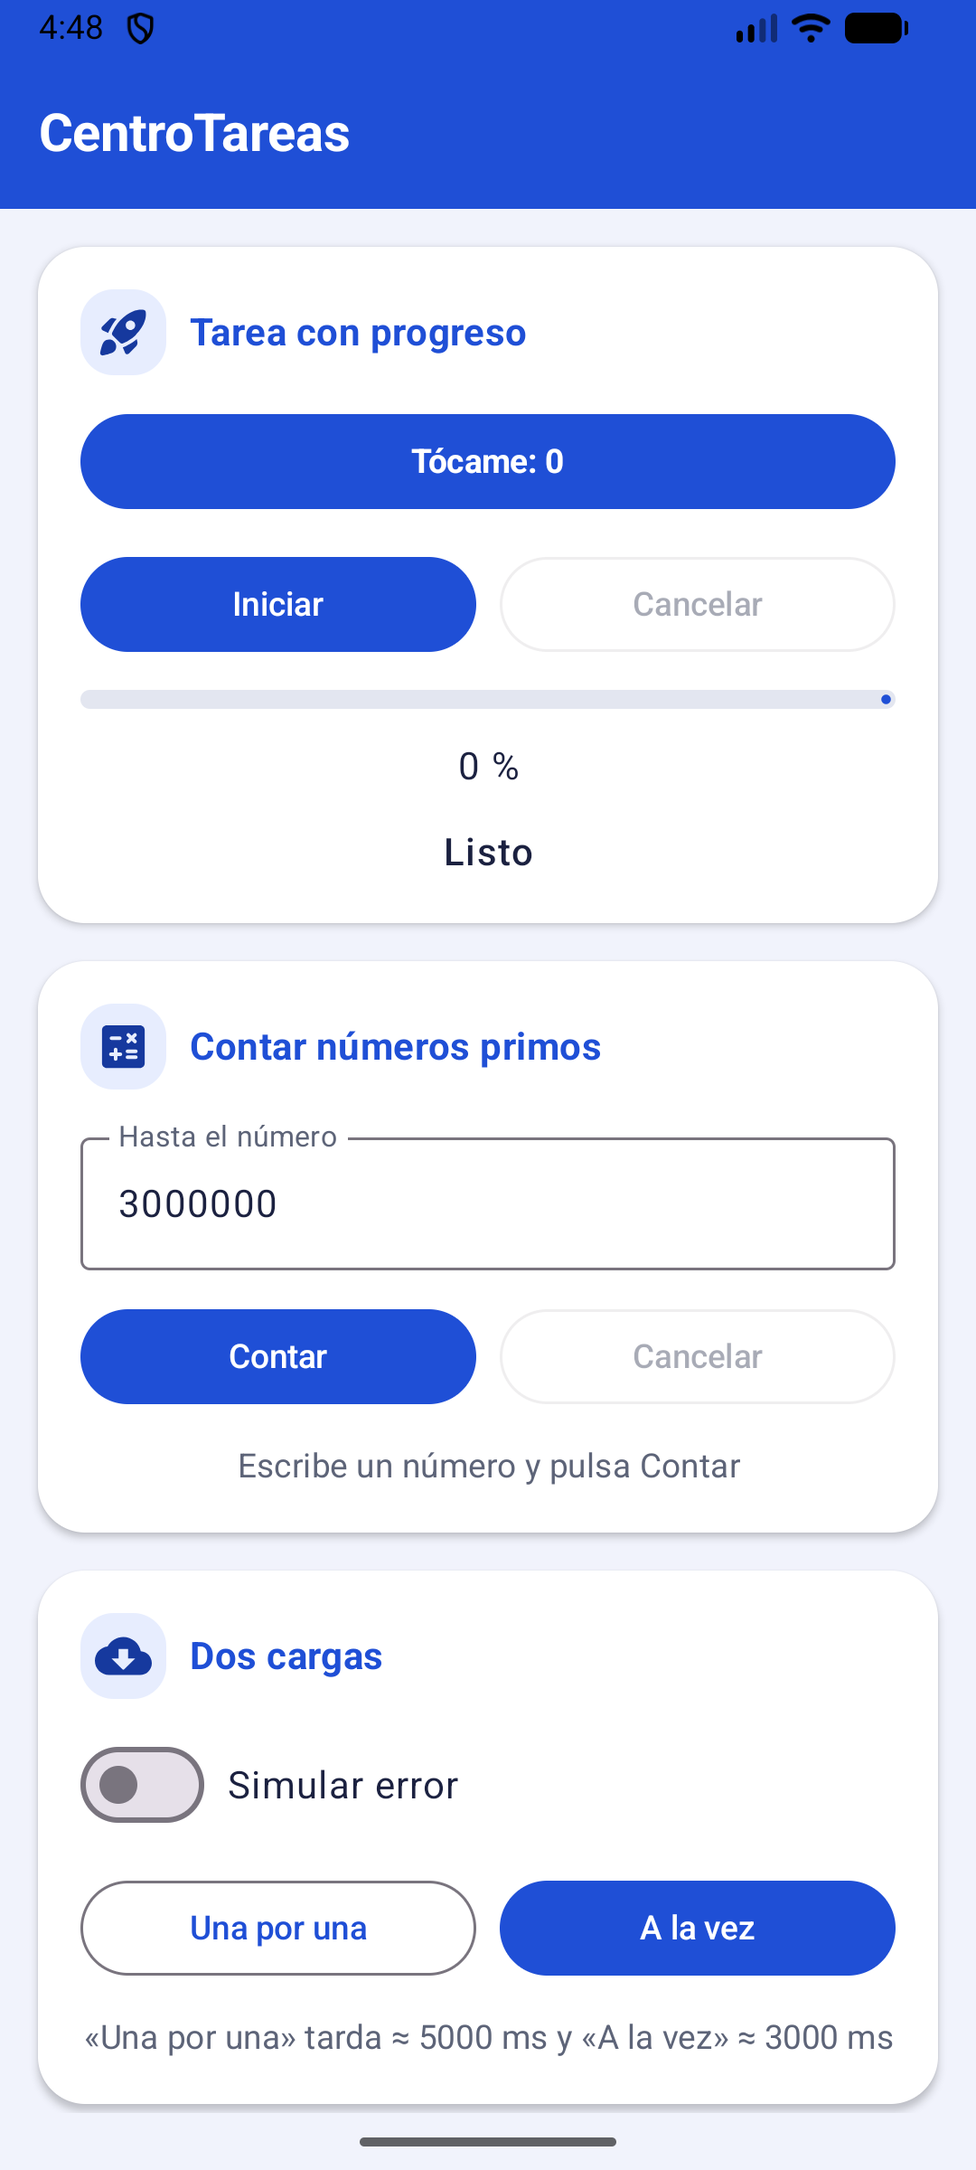
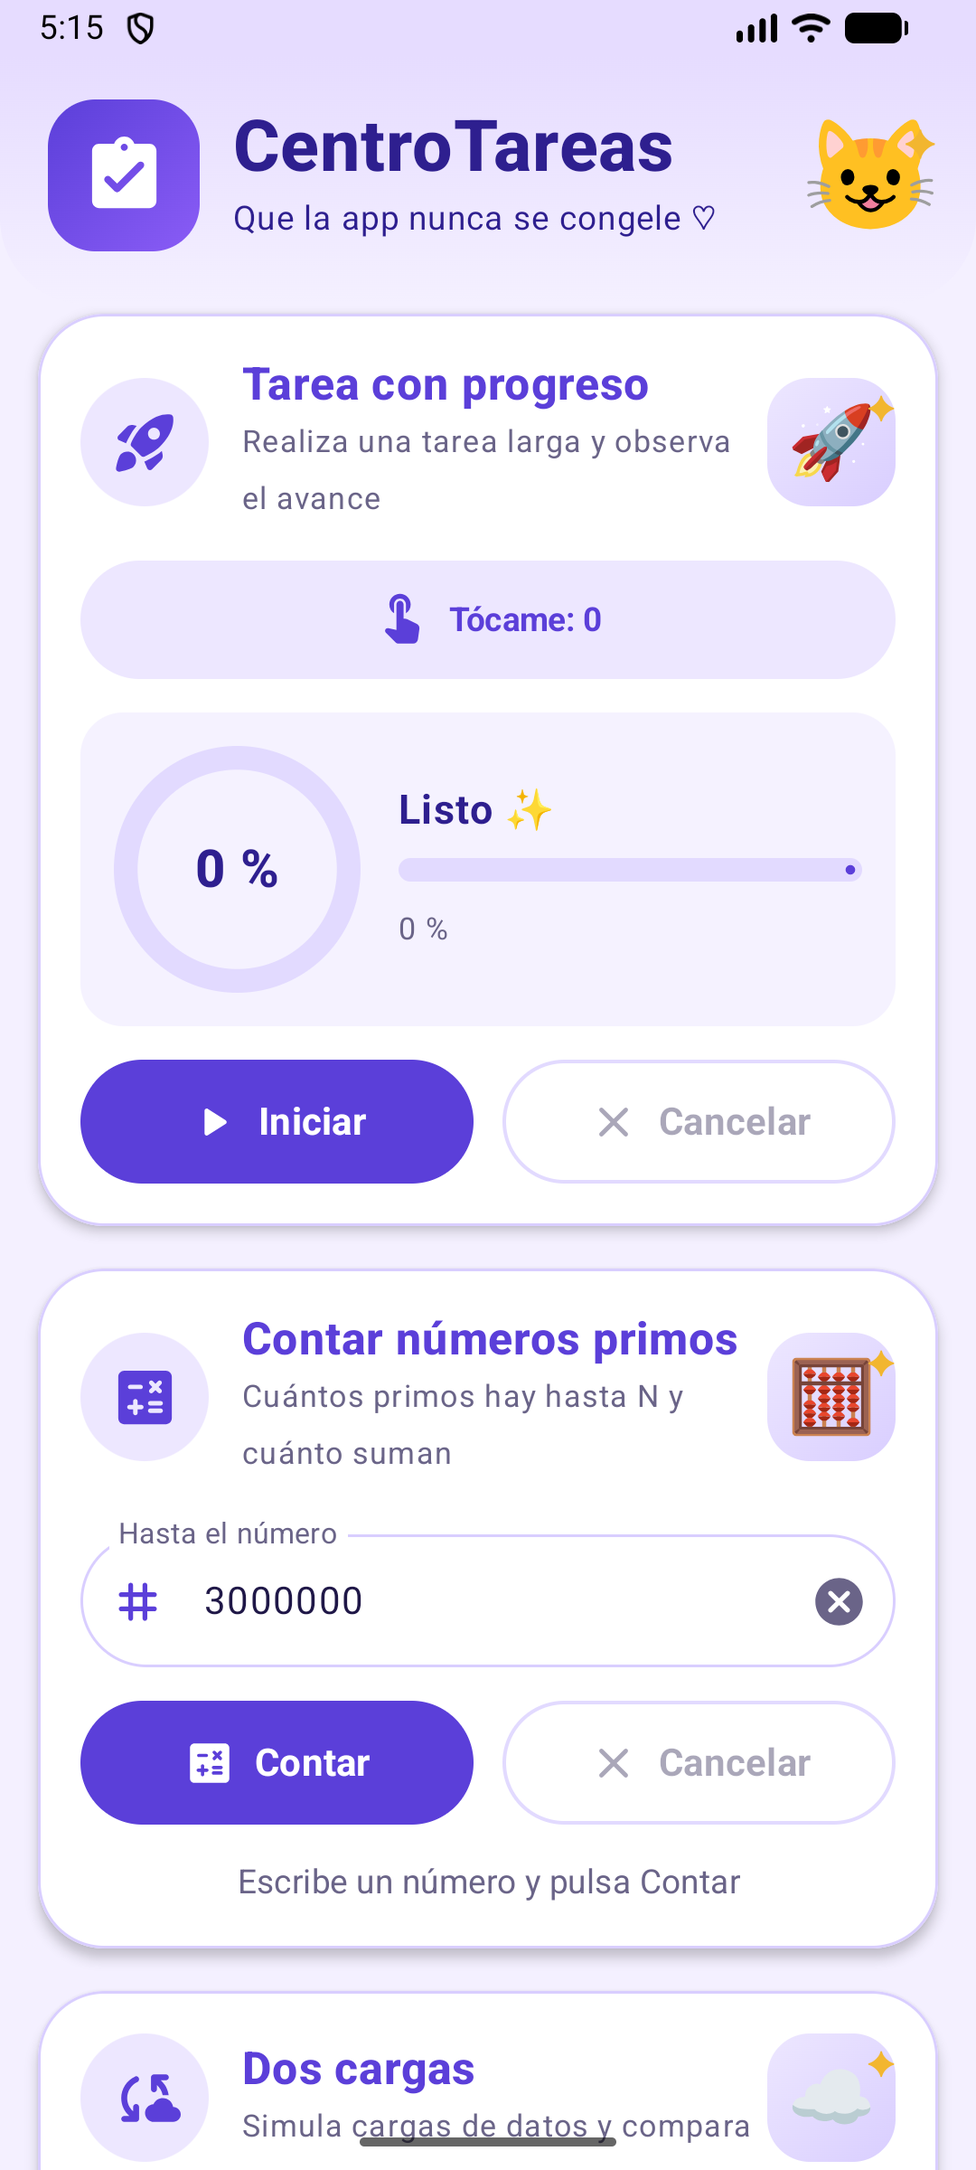
docs: documenta la suma de primos y el diseño morado

diff --git a/Semana 14/MAPA_DEL_LAB.html b/Semana 14/MAPA_DEL_LAB.html
@@ -136,7 +136,7 @@
       <span class="chip">✔ MVVM + Repository</span>
       <span class="chip">✔ Jetpack Compose + Material 3</span>
       <span class="chip">✔ 9 commits Fase 1</span>
-      <span class="chip">✔ 4 mejoras Fase 2</span>
+      <span class="chip">✔ 5 mejoras Fase 2</span>
     </div>
   </div>
 </header>
@@ -171,7 +171,7 @@
         <h3>🖼 View: Jetpack Compose</h3>
         <p>Solo muestra el estado y avisa los eventos (botones). No lanza corrutinas ni usa <code>Thread</code>.</p>
         <div style="margin-top:8px">
-          <span class="ruta">ui/PantallaTareas.kt : <b>77</b></span>
+          <span class="ruta">ui/PantallaTareas.kt : <b>113</b></span>
           <span class="ruta">ui/theme/Theme.kt</span>
         </div>
       </div>
@@ -189,18 +189,18 @@
         <h3>💾 Repository: interface + implementación local</h3>
         <p>Hace el trabajo pesado (cargas simuladas con <code>delay</code>, conteo de primos). No sabe nada de la UI.</p>
         <div style="margin-top:8px">
-          <span class="ruta">data/TareasRepository.kt : <b>5</b></span>
-          <span class="ruta">data/TareasRepositoryLocal.kt : <b>13</b></span>
+          <span class="ruta">data/TareasRepository.kt : <b>6</b></span>
+          <span class="ruta">data/TareasRepositoryLocal.kt : <b>14</b></span>
         </div>
       </div>
     </div>
     <div class="rejilla" style="margin-top:14px">
       <div class="tarjeta">
         <h3>Estados de pantalla</h3>
-        <p><code>sealed interface</code> PrimosUi y CargaUi; data class ComparacionTiempos (mejora 4).</p>
+        <p><code>sealed interface</code> PrimosUi y CargaUi; data class ResultadoPrimos (mejora 5) y ComparacionTiempos (mejora 4).</p>
         <span class="ruta">model/Estados.kt : <b>3</b></span>
-        <span class="ruta">model/Estados.kt : <b>10</b></span>
-        <span class="ruta">model/Estados.kt : <b>23</b></span>
+        <span class="ruta">model/Estados.kt : <b>11</b></span>
+        <span class="ruta">model/Estados.kt : <b>24</b> · <b>27</b></span>
       </div>
       <div class="tarjeta">
         <h3>Inyección del Repository</h3>
@@ -224,7 +224,7 @@
           <tr><td>45 · 46</td><td><code>core-ktx</code> · <code>activity-compose</code></td><td>Base de Android y <code>setContent { }</code> en MainActivity.</td></tr>
           <tr><td>51</td><td><code>compose-bom:2024.12.01</code></td><td>Fija versiones compatibles de todas las librerías de Compose.</td></tr>
           <tr><td>52 · 54</td><td><code>compose.ui</code> · <code>material3</code></td><td>Interfaz sin XML: Card, Button, LinearProgressIndicator, Switch…</td></tr>
-          <tr><td>56</td><td><code>material-icons-extended</code></td><td>Íconos de cohete, calculadora y nube junto al título de cada tarjeta.</td></tr>
+          <tr><td>56</td><td><code>material-icons-extended</code></td><td>Íconos redondeados: cohete, calculadora, nube, play, rayo, capas, reloj…</td></tr>
           <tr><td>34</td><td><code>buildFeatures { compose = true }</code></td><td>Activa Compose en el módulo.</td></tr>
         </tbody>
       </table>
@@ -244,37 +244,37 @@
         <h3>🚀 viewModelScope.launch</h3>
         <p>Lanza corrutinas atadas al ViewModel: se cancelan solas si el ViewModel se destruye y sobreviven a la rotación.</p>
         <span class="ruta">TareasViewModel.kt : <b>40</b></span>
-        <span class="ruta">: <b>76</b></span><span class="ruta">: <b>102</b></span><span class="ruta">: <b>123</b></span>
+        <span class="ruta">: <b>76</b></span><span class="ruta">: <b>103</b></span><span class="ruta">: <b>124</b></span>
       </div>
       <div class="tarjeta">
         <h3>🔀 withContext(Dispatchers.Default)</h3>
         <p>Cambia de hilo para el trabajo pesado y vuelve a <code>main</code> al terminar.</p>
-        <span class="ruta">TareasRepositoryLocal.kt : <b>37</b></span> (primos)
+        <span class="ruta">TareasRepositoryLocal.kt : <b>42</b></span> (primos)
         <span class="ruta"><span class="etq main">main</span> TareasViewModel.kt : <b>45</b></span> (tarea larga, Pasos 2 y 3)
       </div>
       <div class="tarjeta">
         <h3>🌊 Flow + flowOn (mejora 1)</h3>
         <p>La tarea emite su progreso con <code>emit()</code> desde <code>Dispatchers.Default</code>; el ViewModel hace <code>collect</code> en <code>main</code>.</p>
-        <span class="ruta">TareasRepositoryLocal.kt : <b>27–33</b></span>
+        <span class="ruta">TareasRepositoryLocal.kt : <b>28–34</b></span>
         <span class="ruta">TareasViewModel.kt : <b>46</b></span>
       </div>
       <div class="tarjeta">
         <h3>🧵 Log.d("HILO")</h3>
         <p>Muestra en qué hilo corre cada parte: <code>main</code> → <code>DefaultDispatcher-worker</code> → <code>main</code>.</p>
         <span class="ruta">TareasViewModel.kt : <b>44</b> · <b>47</b></span>
-        <span class="ruta">TareasRepositoryLocal.kt : <b>28</b></span>
+        <span class="ruta">TareasRepositoryLocal.kt : <b>29</b></span>
       </div>
       <div class="tarjeta">
         <h3>⏱ delay (no bloquea)</h3>
         <p>Suspende solo la corrutina, libera el hilo y revisa la cancelación.</p>
-        <span class="ruta">TareasRepositoryLocal.kt : <b>16</b> · <b>21</b> · <b>30</b></span>
-        <span class="ruta">TareasViewModel.kt : <b>184</b></span>
+        <span class="ruta">TareasRepositoryLocal.kt : <b>17</b> · <b>22</b> · <b>31</b></span>
+        <span class="ruta">TareasViewModel.kt : <b>185</b></span>
       </div>
       <div class="tarjeta">
         <h3>🛑 Job y cancel()</h3>
         <p>Se guarda el resultado de <code>launch</code> para poder cancelarlo.</p>
         <span class="ruta">TareasViewModel.kt : <b>32</b> · <b>58</b></span>
-        <span class="ruta">: <b>65</b> · <b>90</b></span> (primos)
+        <span class="ruta">: <b>65</b> · <b>91</b></span> (primos)
       </div>
       <div class="tarjeta">
         <h3>🧹 finally</h3>
@@ -284,33 +284,33 @@
       <div class="tarjeta">
         <h3>🔁 Evitar doble inicio</h3>
         <p>Si ya corre, no se lanza otra (y además el botón se deshabilita).</p>
-        <span class="ruta">TareasViewModel.kt : <b>38</b> · <b>73</b> · <b>99</b> · <b>120</b></span>
+        <span class="ruta">TareasViewModel.kt : <b>38</b> · <b>73</b> · <b>100</b> · <b>121</b></span>
       </div>
       <div class="tarjeta">
         <h3>✋ ensureActive()</h3>
         <p>Dentro del ciclo de primos: permite cancelar un cálculo de CPU a mitad de camino.</p>
-        <span class="ruta">TareasRepositoryLocal.kt : <b>42</b></span>
+        <span class="ruta">TareasRepositoryLocal.kt : <b>48</b></span>
       </div>
       <div class="tarjeta">
         <h3>⚡ async + coroutineScope + await</h3>
         <p>Perfil y pedidos al mismo tiempo: ≈ 3 s en lugar de 5 s. Si uno falla, se cancela el otro.</p>
-        <span class="ruta">TareasViewModel.kt : <b>126–130</b></span>
+        <span class="ruta">TareasViewModel.kt : <b>127–131</b></span>
       </div>
       <div class="tarjeta">
         <h3>🧯 try/catch + relanzar CancellationException</h3>
         <p>Un error de carga pasa a <code>CargaUi.Error</code>, pero la cancelación siempre se vuelve a lanzar.</p>
-        <span class="ruta">TareasViewModel.kt : <b>82</b> · <b>110</b> · <b>134</b> · <b>179</b></span>
+        <span class="ruta">TareasViewModel.kt : <b>83</b> · <b>111</b> · <b>135</b> · <b>180</b></span>
       </div>
       <div class="tarjeta">
         <h3>📡 StateFlow de solo lectura</h3>
         <p><code>MutableStateFlow</code> privado + <code>asStateFlow()</code> público. La UI los lee con <code>collectAsState()</code>.</p>
-        <span class="ruta">TareasViewModel.kt : <b>24</b> · <b>28</b> · <b>33</b> · <b>63</b> · <b>94</b></span>
-        <span class="ruta">ui/PantallaTareas.kt : <b>108–110</b></span>
+        <span class="ruta">TareasViewModel.kt : <b>24</b> · <b>28</b> · <b>33</b> · <b>63</b> · <b>95</b></span>
+        <span class="ruta">ui/PantallaTareas.kt : <b>212–214</b></span>
       </div>
       <div class="tarjeta">
         <h3>⏲ Medir el tiempo</h3>
         <p><code>System.currentTimeMillis()</code> antes y después de cada trabajo.</p>
-        <span class="ruta">TareasViewModel.kt : <b>77</b> · <b>104</b> · <b>125</b></span>
+        <span class="ruta">TareasViewModel.kt : <b>77</b> · <b>105</b> · <b>126</b></span>
       </div>
     </div>
   </section>
@@ -325,11 +325,11 @@
           <tr><td>0</td><td>Proyecto base que compila</td><td><span class="ruta">MainActivity.kt</span><span class="ruta">model/Estados.kt</span><span class="ruta">data/</span></td><td><span class="commit">d655701</span></td></tr>
           <tr><td>1</td><td><code>tareaLargaMala()</code> con <code>Thread.sleep(4000)</code>; Observación en README</td><td>Historial: <span class="ruta">TareasViewModel.kt : <b>18</b></span> · <span class="ruta">README.md</span></td><td><span class="commit">e507862</span></td></tr>
           <tr><td>2</td><td><code>tareaLarga()</code> con <code>launch</code> + <code>withContext</code> y Logcat HILO</td><td><span class="ruta"><span class="etq main">main</span> TareasViewModel.kt : <b>37–53</b></span></td><td><span class="commit">e1a2f34</span></td></tr>
-          <tr><td>3</td><td><code>progreso: StateFlow&lt;Float&gt;</code>, 100 × 40 ms, barra y %</td><td><span class="ruta">TareasViewModel.kt : <b>28</b></span><span class="ruta">ui/PantallaTareas.kt : <b>132</b></span></td><td><span class="commit">a9a709a</span></td></tr>
-          <tr><td>4</td><td><code>Job</code>, <code>corriendo</code> con <code>finally</code>, <code>cancelar()</code>, botones habilitados</td><td><span class="ruta">TareasViewModel.kt : <b>32–60</b></span><span class="ruta">ui/PantallaTareas.kt : <b>118–129</b></span></td><td><span class="commit">f4dfbcf</span></td></tr>
-          <tr><td>5</td><td><code>contarPrimos</code> con <code>Default</code> + <code>ensureActive</code>; <code>esPrimo</code>; <code>contar</code>/<code>cancelarPrimos</code></td><td><span class="ruta">TareasRepositoryLocal.kt : <b>36–58</b></span><span class="ruta">TareasViewModel.kt : <b>72–91</b></span><span class="ruta">ui/PantallaTareas.kt : <b>166</b></span></td><td><span class="commit">4d1b4f9</span></td></tr>
-          <tr><td>6</td><td><code>cargarUnaPorUna()</code> ≈ 5 s y <code>cargarALaVez()</code> con <code>async</code> ≈ 3 s</td><td><span class="ruta">TareasViewModel.kt : <b>98–140</b></span><span class="ruta">ui/PantallaTareas.kt : <b>237</b></span></td><td><span class="commit">d90e322</span></td></tr>
-          <tr><td>7</td><td><code>simularError</code>, <code>try/catch</code>, Reintentar y Switch</td><td><span class="ruta">TareasViewModel.kt : <b>144–149</b></span><span class="ruta">ui/PantallaTareas.kt : <b>246</b> · <b>293</b></span></td><td><span class="commit">2ad5b04</span></td></tr>
+          <tr><td>3</td><td><code>progreso: StateFlow&lt;Float&gt;</code>, 100 × 40 ms, barra y %</td><td><span class="ruta">TareasViewModel.kt : <b>28</b></span><span class="ruta">ui/PantallaTareas.kt : <b>266</b></span></td><td><span class="commit">a9a709a</span></td></tr>
+          <tr><td>4</td><td><code>Job</code>, <code>corriendo</code> con <code>finally</code>, <code>cancelar()</code>, botones habilitados</td><td><span class="ruta">TareasViewModel.kt : <b>32–60</b></span><span class="ruta">ui/PantallaTareas.kt : <b>280–286</b></span></td><td><span class="commit">f4dfbcf</span></td></tr>
+          <tr><td>5</td><td><code>contarPrimos</code> con <code>Default</code> + <code>ensureActive</code>; <code>esPrimo</code>; <code>contar</code>/<code>cancelarPrimos</code></td><td><span class="ruta">TareasRepositoryLocal.kt : <b>37–67</b></span><span class="ruta">TareasViewModel.kt : <b>72–92</b></span><span class="ruta">ui/PantallaTareas.kt : <b>307</b></span></td><td><span class="commit">4d1b4f9</span></td></tr>
+          <tr><td>6</td><td><code>cargarUnaPorUna()</code> ≈ 5 s y <code>cargarALaVez()</code> con <code>async</code> ≈ 3 s</td><td><span class="ruta">TareasViewModel.kt : <b>99–142</b></span><span class="ruta">ui/PantallaTareas.kt : <b>393</b></span></td><td><span class="commit">d90e322</span></td></tr>
+          <tr><td>7</td><td><code>simularError</code>, <code>try/catch</code>, Reintentar y Switch</td><td><span class="ruta">TareasViewModel.kt : <b>145–150</b></span><span class="ruta">ui/PantallaTareas.kt : <b>407</b> · <b>446–466</b></span></td><td><span class="commit">2ad5b04</span></td></tr>
           <tr><td>8</td><td>Pruebas de aceptación, README, capturas y «Para pensar»</td><td><span class="ruta">README.md</span><span class="ruta">capturas/</span></td><td><span class="commit">2f31016</span></td></tr>
         </tbody>
       </table>
@@ -343,11 +343,12 @@
       <table>
         <thead><tr><th>Mejora</th><th>Qué hace</th><th>Dónde está</th><th>Commit</th></tr></thead>
         <tbody>
-          <tr><td>1 · Progreso desde el Repository</td><td><code>flow { emit }.flowOn(Default)</code>; el ViewModel solo hace <code>collect</code></td><td><span class="ruta">TareasRepository.kt : <b>12</b></span><span class="ruta">TareasRepositoryLocal.kt : <b>27</b></span><span class="ruta">TareasViewModel.kt : <b>46</b></span></td><td><span class="commit">fcb7760</span></td></tr>
-          <tr><td>2 · Primos con progreso</td><td>Callback <code>alAvanzar</code> cada 1 % y barra «Calculando… 41 %»</td><td><span class="ruta">TareasRepository.kt : <b>7</b></span><span class="ruta">TareasViewModel.kt : <b>68</b></span><span class="ruta">ui/PantallaTareas.kt : <b>206</b></span></td><td><span class="commit">db55379</span></td></tr>
-          <tr><td>3 · Reintento automático</td><td>Hasta 3 intentos con espera de 500 ms y luego 1000 ms; la cancelación nunca se reintenta</td><td><span class="ruta">TareasViewModel.kt : <b>174–195</b></span></td><td><span class="commit">0490715</span></td></tr>
-          <tr><td>4 · Comparación de tiempos</td><td>Tabla con veces, último, promedio y ahorro de «A la vez»</td><td><span class="ruta">TareasViewModel.kt : <b>152–166</b></span><span class="ruta">ui/PantallaTareas.kt : <b>301–307</b></span></td><td><span class="commit">10b7aa7</span></td></tr>
-          <tr><td>Estilo visual</td><td>Tarjetas redondeadas con ícono junto al título y paleta azul. Se respeta la pantalla única y el orden de la guía</td><td><span class="ruta">ui/PantallaTareas.kt</span><span class="ruta">ui/theme/</span></td><td><span class="commit">5a3a6b9</span></td></tr>
+          <tr><td>1 · Progreso desde el Repository</td><td><code>flow { emit }.flowOn(Default)</code>; el ViewModel solo hace <code>collect</code></td><td><span class="ruta">TareasRepository.kt : <b>13</b></span><span class="ruta">TareasRepositoryLocal.kt : <b>28</b></span><span class="ruta">TareasViewModel.kt : <b>46</b></span></td><td><span class="commit">fcb7760</span></td></tr>
+          <tr><td>2 · Primos con progreso</td><td>Callback <code>alAvanzar</code> cada 1 % y barra «Calculando… 41 %»</td><td><span class="ruta">TareasRepository.kt : <b>8</b></span><span class="ruta">TareasViewModel.kt : <b>68</b></span><span class="ruta">ui/PantallaTareas.kt : <b>360</b></span></td><td><span class="commit">db55379</span></td></tr>
+          <tr><td>3 · Reintento automático</td><td>Hasta 3 intentos con espera de 500 ms y luego 1000 ms; la cancelación nunca se reintenta</td><td><span class="ruta">TareasViewModel.kt : <b>175–196</b></span></td><td><span class="commit">0490715</span></td></tr>
+          <tr><td>4 · Comparación de tiempos</td><td>Tabla con veces, último, promedio y ahorro de «A la vez»</td><td><span class="ruta">TareasViewModel.kt : <b>153–167</b></span><span class="ruta">ui/PantallaTareas.kt : <b>471–477</b></span></td><td><span class="commit">10b7aa7</span></td></tr>
+          <tr><td>5 · Suma de primos</td><td>Además de contar los primos hasta N, los suma en la misma pasada (Long). Ej.: hasta 10 → 4 primos, suma 17</td><td><span class="ruta">TareasRepository.kt : <b>16</b></span><span class="ruta">TareasRepositoryLocal.kt : <b>41–58</b></span><span class="ruta">TareasViewModel.kt : <b>80–82</b></span><span class="ruta">ui/PantallaTareas.kt : <b>380</b></span></td><td><span class="commit">bf42c74</span></td></tr>
+          <tr><td>Diseño morado</td><td>Cabecera con ícono y gatito, tarjetas con ícono y dibujo, anillo + barra de progreso, botones con íconos y pie «¡Tú puedes!». Respeta la pantalla única y el orden de la guía</td><td><span class="ruta">ui/PantallaTareas.kt</span><span class="ruta">ui/theme/</span></td><td><span class="commit">1636e9a</span></td></tr>
         </tbody>
       </table>
     </div>
@@ -355,37 +356,37 @@
 
   <section id="interfaz">
     <h2><span class="num">6</span>Interfaz (Compose, sin XML)</h2>
-    <p class="sub">Una sola pantalla, como en la sección 7 de la guía: barra superior y tres tarjetas en este orden. Todo está en <span class="ruta">ui/PantallaTareas.kt</span>.</p>
+    <p class="sub">Una sola pantalla, como en la sección 7 de la guía: título arriba y tres tarjetas en este orden, con el diseño morado. Todo está en <span class="ruta">ui/PantallaTareas.kt</span>.</p>
     <div class="rejilla">
       <div class="tarjeta">
-        <h3>Barra superior y orden</h3>
-        <p>Título CentroTareas sobre el azul del tema y, debajo, las tres tarjetas con scroll.</p>
-        <span class="ruta">ui/PantallaTareas.kt : <b>77</b></span>
+        <h3>Cabecera, orden y pie</h3>
+        <p>Ícono de la app, título CentroTareas y gatito; debajo las tres tarjetas con scroll; al final el pie «¡Tú puedes!».</p>
+        <span class="ruta">ui/PantallaTareas.kt : <b>113</b> · <b>137</b> · <b>183</b></span>
       </div>
       <div class="tarjeta">
         <h3>1 · Tarea con progreso</h3>
-        <p>Tócame (prueba de vida), Iniciar / Cancelar (OutlinedButton), LinearProgressIndicator, el % debajo y el mensaje.</p>
-        <span class="ruta">ui/PantallaTareas.kt : <b>107</b> · <b>115</b> · <b>118–129</b> · <b>132</b></span>
+        <p>Tócame (prueba de vida), anillo con el %, mensaje, LinearProgressIndicator con el % debajo, Iniciar / Cancelar (OutlinedButton).</p>
+        <span class="ruta">ui/PantallaTareas.kt : <b>211</b> · <b>217</b> · <b>266</b> · <b>280–286</b></span>
       </div>
       <div class="tarjeta">
         <h3>2 · Contar números primos</h3>
-        <p>Campo «Hasta el número» que no acepta textos inválidos ni números &lt; 2, Contar / Cancelar y el recuadro verde «Primos hasta N».</p>
-        <span class="ruta">ui/PantallaTareas.kt : <b>166</b> · <b>174</b> · <b>178</b></span>
+        <p>Campo «Hasta el número» (no acepta textos inválidos ni números &lt; 2), Contar / Cancelar y el recuadro verde con cantidad, suma y tiempo.</p>
+        <span class="ruta">ui/PantallaTareas.kt : <b>307</b> · <b>315</b> · <b>324</b> · <b>380</b></span>
       </div>
       <div class="tarjeta">
         <h3>3 · Dos cargas</h3>
         <p>Switch «Simular error», Una por una (OutlinedButton) y A la vez, el recuadro verde o el de error con Reintentar debajo.</p>
-        <span class="ruta">ui/PantallaTareas.kt : <b>237</b> · <b>246</b> · <b>293</b></span>
+        <span class="ruta">ui/PantallaTareas.kt : <b>393</b> · <b>407</b> · <b>446–466</b></span>
       </div>
       <div class="tarjeta">
         <h3>Tabla comparativa (mejora 4)</h3>
         <p>Dentro de la tarjeta Dos cargas, aparece después de la primera carga exitosa.</p>
-        <span class="ruta">ui/PantallaTareas.kt : <b>301</b> · <b>307</b></span>
+        <span class="ruta">ui/PantallaTareas.kt : <b>471</b> · <b>477</b></span>
       </div>
       <div class="tarjeta">
         <h3>Piezas comunes y tema</h3>
-        <p>Card con el título en azul, recuadro verde de resultado y paleta de colores.</p>
-        <span class="ruta">ui/PantallaTareas.kt : <b>361</b> · <b>393</b></span>
+        <p>Tarjeta con ícono y dibujo, botones con ícono, recuadro verde y paleta índigo/lavanda.</p>
+        <span class="ruta">ui/PantallaTareas.kt : <b>522</b> · <b>583</b> · <b>604</b> · <b>627</b></span>
         <span class="ruta">ui/theme/Color.kt</span><span class="ruta">ui/theme/Theme.kt : <b>9</b></span>
       </div>
     </div>

diff --git a/Semana 14/README.md b/Semana 14/README.md
@@ -92,7 +92,7 @@ Todas se hicieron en el emulador *Medium_Phone*.
 
 ## Fase 2 – Mejoras (rama `mejora-ia-s14`)
 
-Son 4 mejoras de la lista de la guía, cada una en su propio commit. El registro de prompts y decisiones está en [PROMPTS.md](PROMPTS.md).
+Son 4 mejoras de la lista de la guía más una propia (la suma de primos) y el diseño visual, cada una en su propio commit. El registro de prompts y decisiones está en [PROMPTS.md](PROMPTS.md).
 
 | # | Mejora | Capas que cambian | Qué hace |
 |---|---|---|---|
